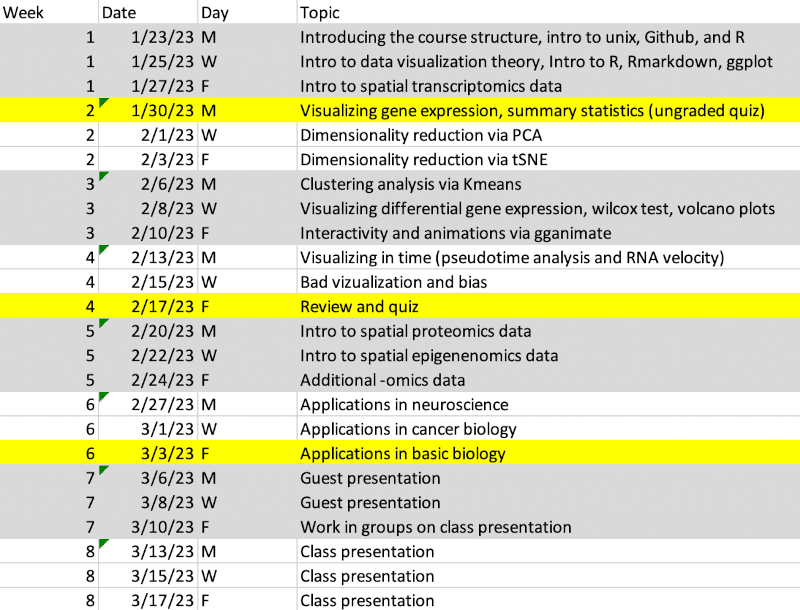
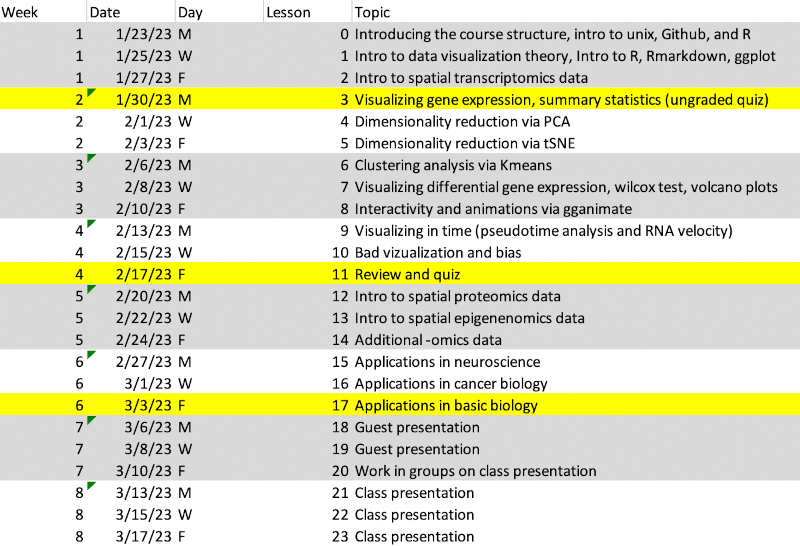
update course structure based on last years feedback

Changed region(s): [[0.0, 0.0, 1.0, 0.9963], [0.0, 0.0, 0.0625, 0.0311]]

diff --git a/_course/3-summary-statistics.md b/_course/3-summary-statistics.md
@@ -31,20 +31,22 @@ By the end of this lesson, we should understand sources of quality variability i
 
 # Hands-on component 3
 
-Our in-class hands-on component will involve analyzing either the MERFISH or Visium dataset to create a data visualization to evaluate the data quality. We will also do an in-class demonstration of the homework submission process. 
+Our in-class hands-on component will involve analyzing our spatial transcriptomics datasets to create a data visualization to evaluate the data quality. We will also do an in-class demonstration of the homework submission process. 
 
 ---
 
 # Class Lesson Notes 3
 
-Prof. Fan’s whiteboard notes from class: [genomic-data-visualization-classnotes-20220131.pdf (click to download)]({{ site.baseurl }}/resources/notes/genomic-data-visualization-classnotes-20220131.pdf)
+Prof. Fan’s whiteboard notes from class: 
 
-Prof. Fan’s code from class: [inclass-plotting-20220131.R (click to download)]({{ site.baseurl }}/resources/code/inclass-plotting-20220131.R) 
+Prof. Fan’s code from class: 
 
 ---
 
 # Homework 3
 
+Learn from your classmates: pick someone else's data visualization for a spatial transcriptomics dataset that is different from your own. Apply their code to your spatial transcriptomics dataset. Write a description of how this data visualization makes salient similar or different features from the data visualization you made. 
 
-None. Assignment and submission of Homework 3 will be pushed back one class to accomodate new students. For those less familiar with R and ggplot, please tinker and practice on your own so you will be ready to create data visualizations of either the MERFISH or Visium dataset using ggplot in R for your next homework. 
+[genomic-data-visualization-HW_2.pptx (click to download)]({{ site.baseurl }}/resources/hw/genomic-data-visualization-HW_2.pptx)
 
+Make a pull request to submit your homework (due Thursday Midnight).

diff --git a/_course/2-spatial-transcriptomics-data.md b/_course/2-spatial-transcriptomics-data.md
@@ -33,22 +33,23 @@ Visium is a commercial platform that uses glass slides with arrayed oligonucleot
 
 # Hands-on component 2
 
-Our in-class hands-on component will downloading and analyzing either a MERFISH or Visium dataset of a coronal section of the mouse brain.
+Our in-class hands-on component will involve forming teams, downloading, and beginning to analyze spatial transcriptomics data. 
 
 ---
 
 # Class Lesson Notes 2
 
-Prof. Fan’s whiteboard notes from class: [genomic-data-visualization-classnotes-20220128.pdf (click to download)]({{ site.baseurl }}/resources/notes/genomic-data-visualization-classnotes-20220128.pdf)
+Prof. Fan’s whiteboard notes from class: 
 
-Prof. Fan’s code from class: [inclass-plotting-20220128.R (click to download)]({{ site.baseurl }}/resources/code/inclass-plotting-20220128.R)
+Prof. Fan’s code from class: 
 
 ---
 
 # Homework Assignment 2
 
-Read the original Chen et al and Stahl et al papers. Quiz next week may incorporate questions from these readings.
+Make a new data visualization of your spatial transcriptomics dataset using ggplot (do not make the same visualizations that were made in class). Write a description of what you did using vocabulary terms from Lesson 1. See slides for more details on what is expected and how to submit your homework.
 
-Complete Homework Assignment 0 if you registered late. 
+[genomic-data-visualization-HW_1.pptx (click to download)]({{ site.baseurl }}/resources/hw/genomic-data-visualization-HW_1.pptx)
 
+Make a pull request to submit your homework (due Monday Midnight).
 

diff --git a/_course/8-interactivity.md b/_course/8-interactivity.md
@@ -1,24 +1,24 @@
 ---
 layout: page
-title:  "Lesson 9: Putting It All Together and Interactivity"
-order: 9
+title:  "Lesson 8: Putting It All Together and Interactivity"
+order: 8
 ---
 
-# Lecture 9
+# Lecture 8
 
-## 9.0 Lesson learning objectives
+## 8.0 Lesson learning objectives
 
 By the end of this lesson, we should be able to use interactive data visualizations to get some sense for the quality of our analysis.
 
 ---
 
-# Hands-on component 9
+# Hands-on component 8
 
 Our in-class hands-on component will analyzing either the MERFISH or Visium dataset to create a data visualization using `gganimate`.
 
 ---
 
-# Class Lesson Notes 9
+# Class Lesson Notes 8
 
 Prof. Fan’s slides shown in class: [genomic-data-visualization-classnotes-20220214.pptx (click to download)]({{ site.baseurl }}/resources/notes/genomic-data-visualization-classnotes-20220214.pptx)
 
@@ -26,7 +26,7 @@ Prof. Fan’s code from class: [inclass-plotting-20220214.R (click to download)]
 
 ---
 
-# Homework Assignment 9
+# Homework Assignment 8
 
 In either the MERFISH or Visium dataset, identify and visualize the spatial distribution of Mature Oligodendrocytes. Create a multi-panel data visualization with a corresponding ‘figure caption’ that describes your data visualization to convince me that you have correctly identified Mature Oligodendrocytes.
 

diff --git a/_course/10-misleading-visualizations.md b/_course/10-misleading-visualizations.md
@@ -1,24 +1,24 @@
 ---
 layout: page
-title:  "Lesson 8: Misleading Visualizations"
-order: 8
+title:  "Lesson 10: Misleading Visualizations"
+order: 10
 ---
 
-# Lecture 8
+# Lecture 10
 
-## 8.0 Lesson learning objectives
+## 10.0 Lesson learning objectives
 
 By the end of this lesson, we should better understand how analyses and data design principals may be used to mislead (often unintentionally) and how we can use data visualization to correct our misunderstanding. 
 
 ---
 
-# Hands-on component 8
+# Hands-on component 10
 
 We will perform an analysis using the data analysis approaches we have learned so far and use data visualizations with the intention of misleading. Then we will use data visualization to correct our misunderstanding.
 
 ---
 
-# Class Lesson Notes 8
+# Class Lesson Notes 10
 
 Prof. Fan’s whiteboard notes from class: [genomic-data-visualization-classnotes-20220211.pdf (click to download)]({{ site.baseurl }}/resources/notes/genomic-data-visualization-classnotes-20220211.pdf)
 
@@ -29,7 +29,7 @@ In case you're curious how the mystery dataset was made: [generate_mystery.R (cl
 
 ---
 
-# Homework Assignment 8
+# Homework Assignment 10
 
 None. Complete Homework Assignment 7 if you have not done so yet.
 

diff --git a/_course/9-rna-velocity.md b/_course/9-rna-velocity.md
@@ -1,24 +1,24 @@
 ---
 layout: page
-title:  "Lesson 10: RNA Velocity"
-order: 10
+title:  "Lesson 9: RNA Velocity"
+order: 9
 ---
 
-# Lecture 10
+# Lecture 9
 
-## 10.0 Lesson learning objectives
+## 9.0 Lesson learning objectives
 
 By the end of this lesson, we should understand what is RNA velocity analysis.
 
 ---
 
-# Hands-on component 10
+# Hands-on component 9
 
 Our in-class hands-on component will continue analyzing either the MERFISH or Visium dataset.
 
 ---
 
-# Class Lesson Notes 10
+# Class Lesson Notes 9
 
 Prof. Fan’s slides shown in class: [genomic-data-visualization-classnotes-20220216.pptx (click to download)]({{ site.baseurl }}/resources/notes/genomic-data-visualization-classnotes-20220216.pptx)
 
@@ -26,7 +26,7 @@ Prof. Fan’s whiteboard notes from class: [genomic-data-visualization-classnote
 
 ---
 
-# Homework Assignment 10
+# Homework Assignment 9
 
 None. Complete Homework Assignment 9 if you have not done so yet.
 

diff --git a/_course/1-data-visualization-theory.md b/_course/1-data-visualization-theory.md
@@ -68,9 +68,9 @@ Our in-class hands-on component will focus on introducing students to the R prog
 
 # Class Lesson Notes 1
 
-Prof. Fan’s whiteboard notes from class: [genomic-data-visualization-classnotes-20220126.pdf (click to download)]({{ site.baseurl }}/resources/notes/genomic-data-visualization-classnotes-20220126.pdf)
+Prof. Fan’s whiteboard notes from class: 
 
-Prof. Fan’s code from class: [inclass-plotting-20220126.R (click to download)]({{ site.baseurl }}/resources/code/inclass-plotting-20220126.R)
+Prof. Fan’s code from class: 
 
 ---
 

diff --git a/_course/18-guest-lecture.md b/_course/18-guest-lecture.md
@@ -1,0 +1,32 @@
+---
+layout: page
+title:  "Lesson 18: Guest Lecture"
+order: 18
+---
+
+# Lecture 18
+
+## 18.0 Lesson learning objectives
+
+A guest lecturer will be giving a guest lecture on their research.
+
+---
+
+# Hands-on component 18
+
+None.
+
+---
+
+# Class Lesson Notes 18
+
+Slides shown in class:
+
+---
+
+# Homework Assignment 18
+
+None. 
+
+
+

diff --git a/_course/19-guest-lecture.md b/_course/19-guest-lecture.md
@@ -1,0 +1,32 @@
+---
+layout: page
+title:  "Lesson 19: Guest Lecture"
+order: 19
+---
+
+# Lecture 19
+
+## 19.0 Lesson learning objectives
+
+A guest lecture will be giving a guest lecture on their research.
+
+---
+
+# Hands-on component 19
+
+None.
+
+---
+
+# Class Lesson Notes 19
+
+Slides shown in class: 
+
+---
+
+# Homework Assignment 19
+
+None. 
+
+
+
